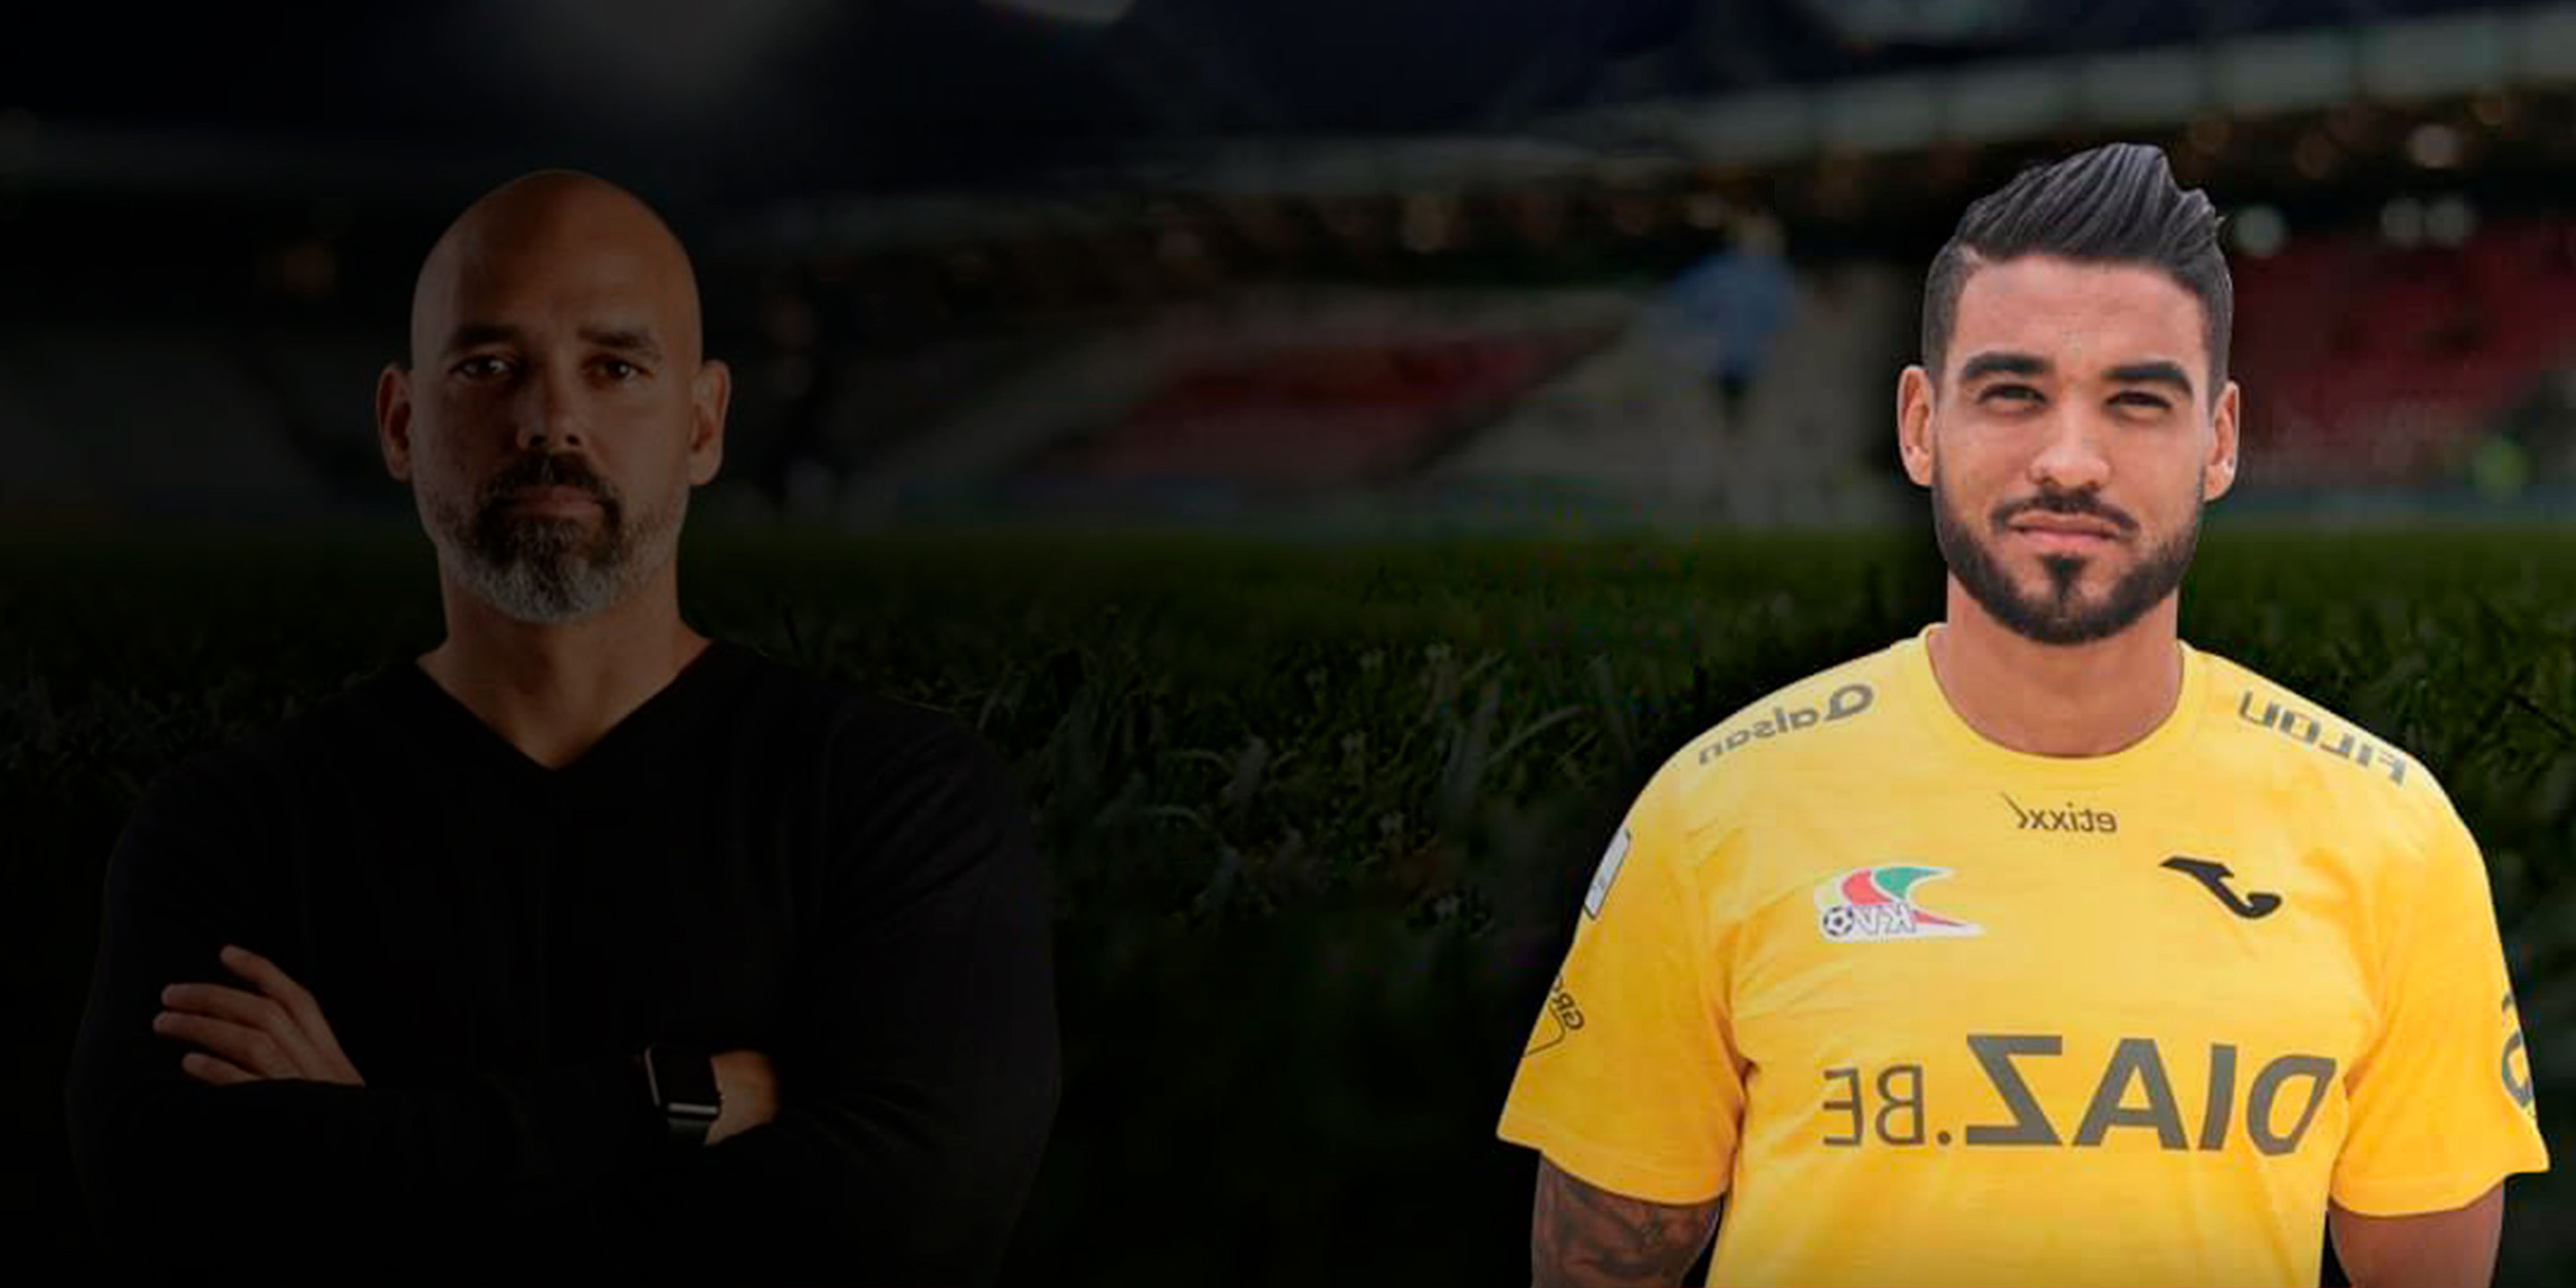
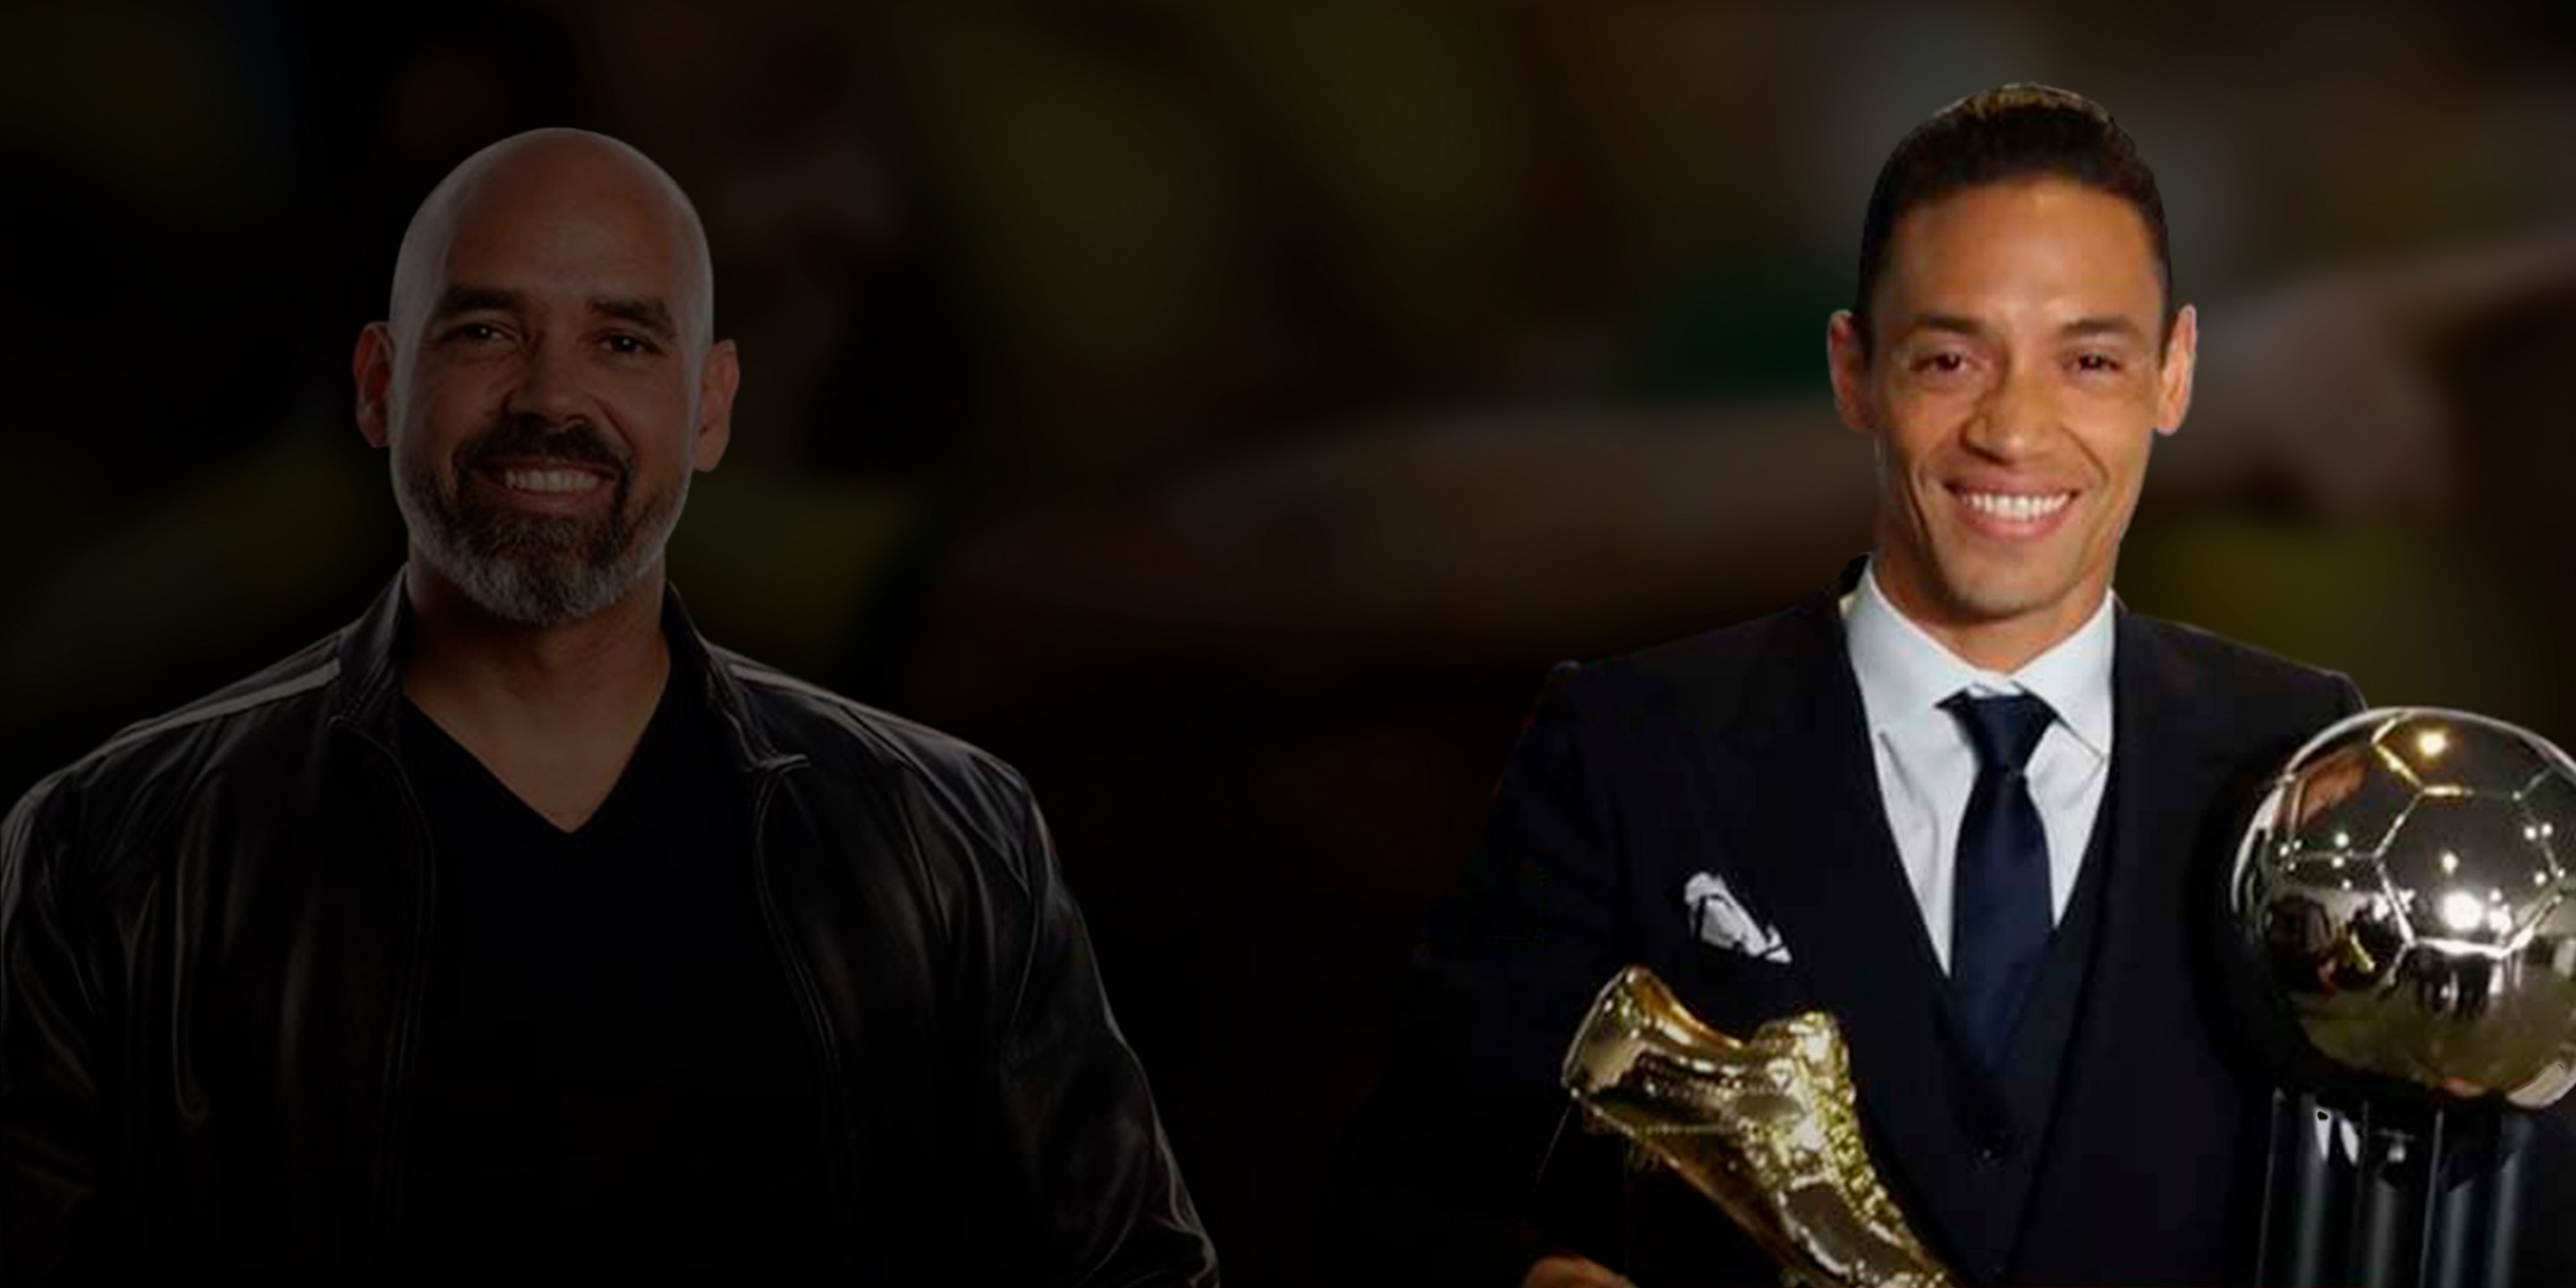
Actualizando cambios

diff --git a/index.html b/index.html
@@ -53,12 +53,12 @@
 <div class="row">
 <div class="lqd-column col-md-12">
 <div class="ld-fancy-heading text-uppercase">
-<h2 class="my-0 lh-1 text-white font-weight-bold" data-ca-options="{&quot;triggerHandler&quot;:&quot;inview&quot;,&quot;animationTarget&quot;:&quot;.split-inner&quot;,&quot;duration&quot;:700,&quot;delay&quot;:100,&quot;easing&quot;:&quot;easeOutQuint&quot;,&quot;direction&quot;:&quot;forward&quot;,&quot;initValues&quot;:{&quot;translateX&quot;:70,&quot;scaleX&quot;:1.5,&quot;opacity&quot;:0},&quot;animations&quot;:{&quot;translateX&quot;:0,&quot;scaleX&quot;:1,&quot;opacity&quot;:1}}" data-custom-animations="true" data-fittext="true" data-fittext-options="{&quot;compressor&quot;:1,&quot;maxFontSize&quot;:&quot;100&quot;,&quot;minFontSize&quot;:&quot;50&quot;}" data-split-options="{&quot;type&quot;:&quot;chars, words&quot;}" data-split-text="true"><span class="ld-fh-txt">Ronald Vargas</span></h2>
+<h2 class="my-0 lh-1 text-white font-weight-bold" data-ca-options="{&quot;triggerHandler&quot;:&quot;inview&quot;,&quot;animationTarget&quot;:&quot;.split-inner&quot;,&quot;duration&quot;:700,&quot;delay&quot;:100,&quot;easing&quot;:&quot;easeOutQuint&quot;,&quot;direction&quot;:&quot;forward&quot;,&quot;initValues&quot;:{&quot;translateX&quot;:70,&quot;scaleX&quot;:1.5,&quot;opacity&quot;:0},&quot;animations&quot;:{&quot;translateX&quot;:0,&quot;scaleX&quot;:1,&quot;opacity&quot;:1}}" data-custom-animations="true" data-fittext="true" data-fittext-options="{&quot;compressor&quot;:1,&quot;maxFontSize&quot;:&quot;100&quot;,&quot;minFontSize&quot;:&quot;50&quot;}" data-split-options="{&quot;type&quot;:&quot;chars, words&quot;}" data-split-text="true"><span class="ld-fh-txt">Ricardo Oliveira</span></h2>
 </div>
 <!-- /.ld-fancy-heading -->
 
 <div class="ld-fancy-heading text-uppercase">
-<h2 class="mt-0 mb-3 lh-1 text-primary font-weight-bold" data-ca-options="{&quot;triggerHandler&quot;:&quot;inview&quot;,&quot;animationTarget&quot;:&quot;.split-inner&quot;,&quot;duration&quot;:700,&quot;startDelay&quot;:&quot;950&quot;,&quot;delay&quot;:100,&quot;easing&quot;:&quot;easeOutQuint&quot;,&quot;direction&quot;:&quot;forward&quot;,&quot;initValues&quot;:{&quot;scaleX&quot;:1.5,&quot;scaleY&quot;:1.5,&quot;opacity&quot;:0},&quot;animations&quot;:{&quot;scaleX&quot;:1,&quot;scaleY&quot;:1,&quot;opacity&quot;:1}}" data-custom-animations="true" data-fittext="true" data-fittext-options="{&quot;compressor&quot;:1,&quot;maxFontSize&quot;:&quot;100&quot;,&quot;minFontSize&quot;:&quot;50&quot;}" data-split-options="{&quot;type&quot;:&quot;chars, words&quot;}" data-split-text="true"><span class="ld-fh-txt">Sab&nbsp;- 9&nbsp;Mayo</span></h2>
+<h2 class="mt-0 mb-3 lh-1 text-primary font-weight-bold" data-ca-options="{&quot;triggerHandler&quot;:&quot;inview&quot;,&quot;animationTarget&quot;:&quot;.split-inner&quot;,&quot;duration&quot;:700,&quot;startDelay&quot;:&quot;950&quot;,&quot;delay&quot;:100,&quot;easing&quot;:&quot;easeOutQuint&quot;,&quot;direction&quot;:&quot;forward&quot;,&quot;initValues&quot;:{&quot;scaleX&quot;:1.5,&quot;scaleY&quot;:1.5,&quot;opacity&quot;:0},&quot;animations&quot;:{&quot;scaleX&quot;:1,&quot;scaleY&quot;:1,&quot;opacity&quot;:1}}" data-custom-animations="true" data-fittext="true" data-fittext-options="{&quot;compressor&quot;:1,&quot;maxFontSize&quot;:&quot;100&quot;,&quot;minFontSize&quot;:&quot;50&quot;}" data-split-options="{&quot;type&quot;:&quot;chars, words&quot;}" data-split-text="true"><span class="ld-fh-txt">Sab&nbsp;- 16&nbsp;Mayo</span></h2>
 </div>
 <!-- /.ld-fancy-heading -->
 
@@ -193,7 +193,7 @@
 <!-- /.row --></div>
 <!-- /.container --></section>
 
-<section class="vc_row pt-150 pb-150 bg-cover bg-center" data-parallax="true" data-parallax-options="{&quot;parallaxBG&quot;: true}" style="background-image: url(./assets/demo/bg/ronald-estadio.jpg);">
+<section class="vc_row pt-150 pb-150 bg-cover bg-center" data-parallax="true" data-parallax-options="{&quot;parallaxBG&quot;: true}" style="background-image: url(./assets/demo/bg/ricardo-estadio.jpg);">
 <div class="container">
 <div class="row">
 <div class="lqd-column col-md-8 col-md-offset-2 text-center">
@@ -203,7 +203,7 @@
 <!-- /.ld-fancy-heading -->
 
 <div class="ld-fancy-heading mask-text text-uppercase">
-<p class="text-white ltr-sp-5 lh-1" data-ca-options="{&quot;triggerHandler&quot;:&quot;inview&quot;,&quot;animationTarget&quot;:&quot;.split-inner&quot;,&quot;duration&quot;:&quot;1200&quot;,&quot;startDelay&quot;:&quot;400&quot;,&quot;delay&quot;:&quot;200&quot;,&quot;easing&quot;:&quot;easeInOutQuint&quot;,&quot;direction&quot;:&quot;forward&quot;,&quot;initValues&quot;:{&quot;translateY&quot;:55},&quot;animations&quot;:{&quot;translateY&quot;:0}}" data-custom-animations="true" data-fittext="true" data-fittext-options="{&quot;compressor&quot;:0.65,&quot;maxFontSize&quot;: 48,&quot;minFontSize&quot;: 36}" data-split-options="{&quot;type&quot;:&quot;words&quot;}" data-split-text="true"><span class="ld-fh-txt">Ronald Vargas</span></p>
+<p class="text-white ltr-sp-5 lh-1" data-ca-options="{&quot;triggerHandler&quot;:&quot;inview&quot;,&quot;animationTarget&quot;:&quot;.split-inner&quot;,&quot;duration&quot;:&quot;1200&quot;,&quot;startDelay&quot;:&quot;400&quot;,&quot;delay&quot;:&quot;200&quot;,&quot;easing&quot;:&quot;easeInOutQuint&quot;,&quot;direction&quot;:&quot;forward&quot;,&quot;initValues&quot;:{&quot;translateY&quot;:55},&quot;animations&quot;:{&quot;translateY&quot;:0}}" data-custom-animations="true" data-fittext="true" data-fittext-options="{&quot;compressor&quot;:0.65,&quot;maxFontSize&quot;: 48,&quot;minFontSize&quot;: 36}" data-split-options="{&quot;type&quot;:&quot;words&quot;}" data-split-text="true"><span class="ld-fh-txt">Ricardo Oliveira</span></p>
 </div>
 <!-- /.ld-fancy-heading -->
 
@@ -215,7 +215,8 @@
 <!-- /.lqd-column col-md-8 col-md-offset-2 -->
 
 <div class="lqd-column col-md-12 text-center">
-    							<a href="https://youtu.be/IWLMGExCUcY" class="btn btn-naked fresco btn-icon-block btn-icon-top btn-icon-xlg btn-icon-circle btn-icon-bordered">
+                  <!-- link youtube -->
+    							<a href="https://www.youtube.com/watch?v=BXQPKo8hCu0&feature=youtu.be" class="btn btn-naked fresco btn-icon-block btn-icon-top btn-icon-xlg btn-icon-circle btn-icon-bordered">
 								<span>
 									<span class="btn-icon font-size-22">
 										<i class="fa fa-play"></i>
@@ -368,6 +369,30 @@
       <!-- /.fancy-box-info --></div>
       <!-- /.fancy-box-contents --></div>
       <!-- /.fancy-box --></div>
+
+      <div class="lqd-column carousel-item col-md-3 col-sm-6">
+        <div class="fancy-box content-box-heading-sm fancy-box-classes">
+        <figure class="fancy-box-image"><img alt="BootCamp Circuitss" src="./assets/demo/misc/ronald-vargas.jpg" /></figure>
+        
+        <div class="fancy-box-contents">
+        <div class="fancy-box-info">
+        <h3>Ronald Vargas</h3>
+        <span class="trainer">Futbolista Profesional</span></div>
+        <!-- /.fancy-box-info --></div>
+        <!-- /.fancy-box-contents --></div>
+        <!-- /.fancy-box --></div>
+
+        <div class="lqd-column carousel-item col-md-3 col-sm-6">
+          <div class="fancy-box content-box-heading-sm fancy-box-classes">
+          <figure class="fancy-box-image"><img alt="BootCamp Circuitss" src="./assets/demo/misc/wuilker-farinez.jpg" /></figure>
+          
+          <div class="fancy-box-contents">
+          <div class="fancy-box-info">
+          <h3>Wuilker Fariñez</h3>
+          <span class="trainer">Futbolista Profesional</span></div>
+          <!-- /.fancy-box-info --></div>
+          <!-- /.fancy-box-contents --></div>
+          <!-- /.fancy-box --></div>
 
 <!-- /.lqd-column carousel-item col-md-3 col-sm-6 --></div>
 <!-- /.carousel-items --></div>

diff --git a/gracias.html b/gracias.html
@@ -302,6 +302,30 @@
 													<!-- /.fancy-box-contents --></div>
 													<!-- /.fancy-box --></div>
 
+													<div class="lqd-column carousel-item col-md-3 col-sm-6">
+														<div class="fancy-box content-box-heading-sm fancy-box-classes">
+														<figure class="fancy-box-image"><img alt="BootCamp Circuitss" src="./assets/demo/misc/ronald-vargas.jpg" /></figure>
+														
+														<div class="fancy-box-contents">
+														<div class="fancy-box-info">
+														<h3>Ronald Vargas</h3>
+														<span class="trainer">Futbolista Profesional</span></div>
+														<!-- /.fancy-box-info --></div>
+														<!-- /.fancy-box-contents --></div>
+														<!-- /.fancy-box --></div>
+
+														<div class="lqd-column carousel-item col-md-3 col-sm-6">
+															<div class="fancy-box content-box-heading-sm fancy-box-classes">
+															<figure class="fancy-box-image"><img alt="BootCamp Circuitss" src="./assets/demo/misc/wuilker-farinez.jpg" /></figure>
+															
+															<div class="fancy-box-contents">
+															<div class="fancy-box-info">
+															<h3>Wuilker Fariñez</h3>
+															<span class="trainer">Futbolista Profesional</span></div>
+															<!-- /.fancy-box-info --></div>
+															<!-- /.fancy-box-contents --></div>
+															<!-- /.fancy-box --></div>
+
 								</div><!-- /.carousel-items -->
 
 							</div><!-- /.carousel-container -->
